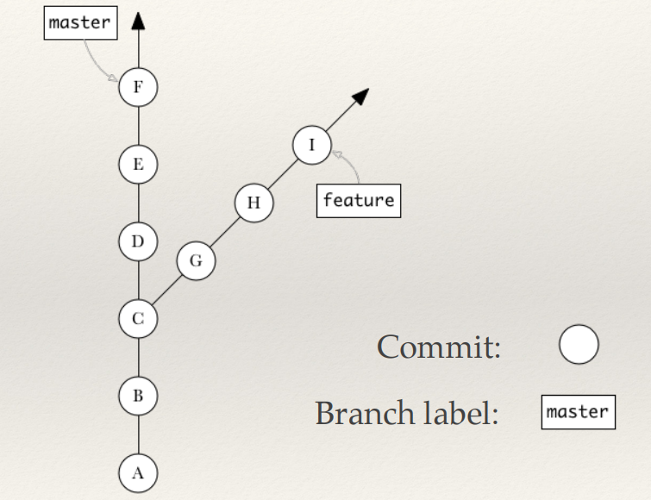
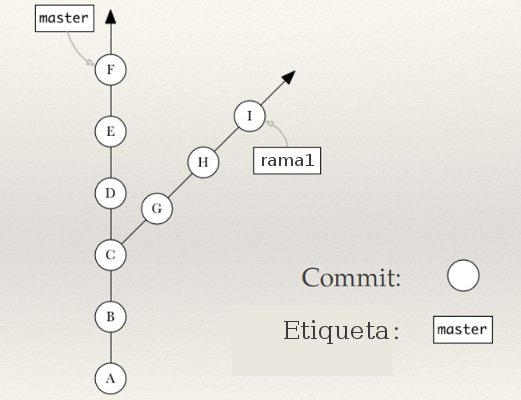
fixing branch image text

diff --git a/slides/git-intro.html b/slides/git-intro.html
@@ -199,11 +199,6 @@ $ git commit -a  # todos los archivos
         </section>
 
         <section>
-          <h2>las ramas</h2>
-          <img src="img/commits-flow.png">
-        </section>
-
-        <section>
           <h2>git log</h2>
           <p>Ver la historia de tus commits</p>
           <p>El hash del commit es de 40 digitos pero podemos usar solo los primeros 6 o 7</p>
@@ -249,6 +244,12 @@ $ git pull
 $ git branch NOMBRE_DE_LA_RAMA   # crea la rama
 $ git checkout -b NOMBRE_DE_LA_RAMA   # crea la rama y entra a la misma
           </code></pre>
+        </section>
+
+        <section>
+          <h2>las ramas</h2>
+          <p>la rama no es un objecto, es una etiqueta que apunta a un determinado commit</p>
+          <img src="img/commits-flow.png">
         </section>
 
         <section>
